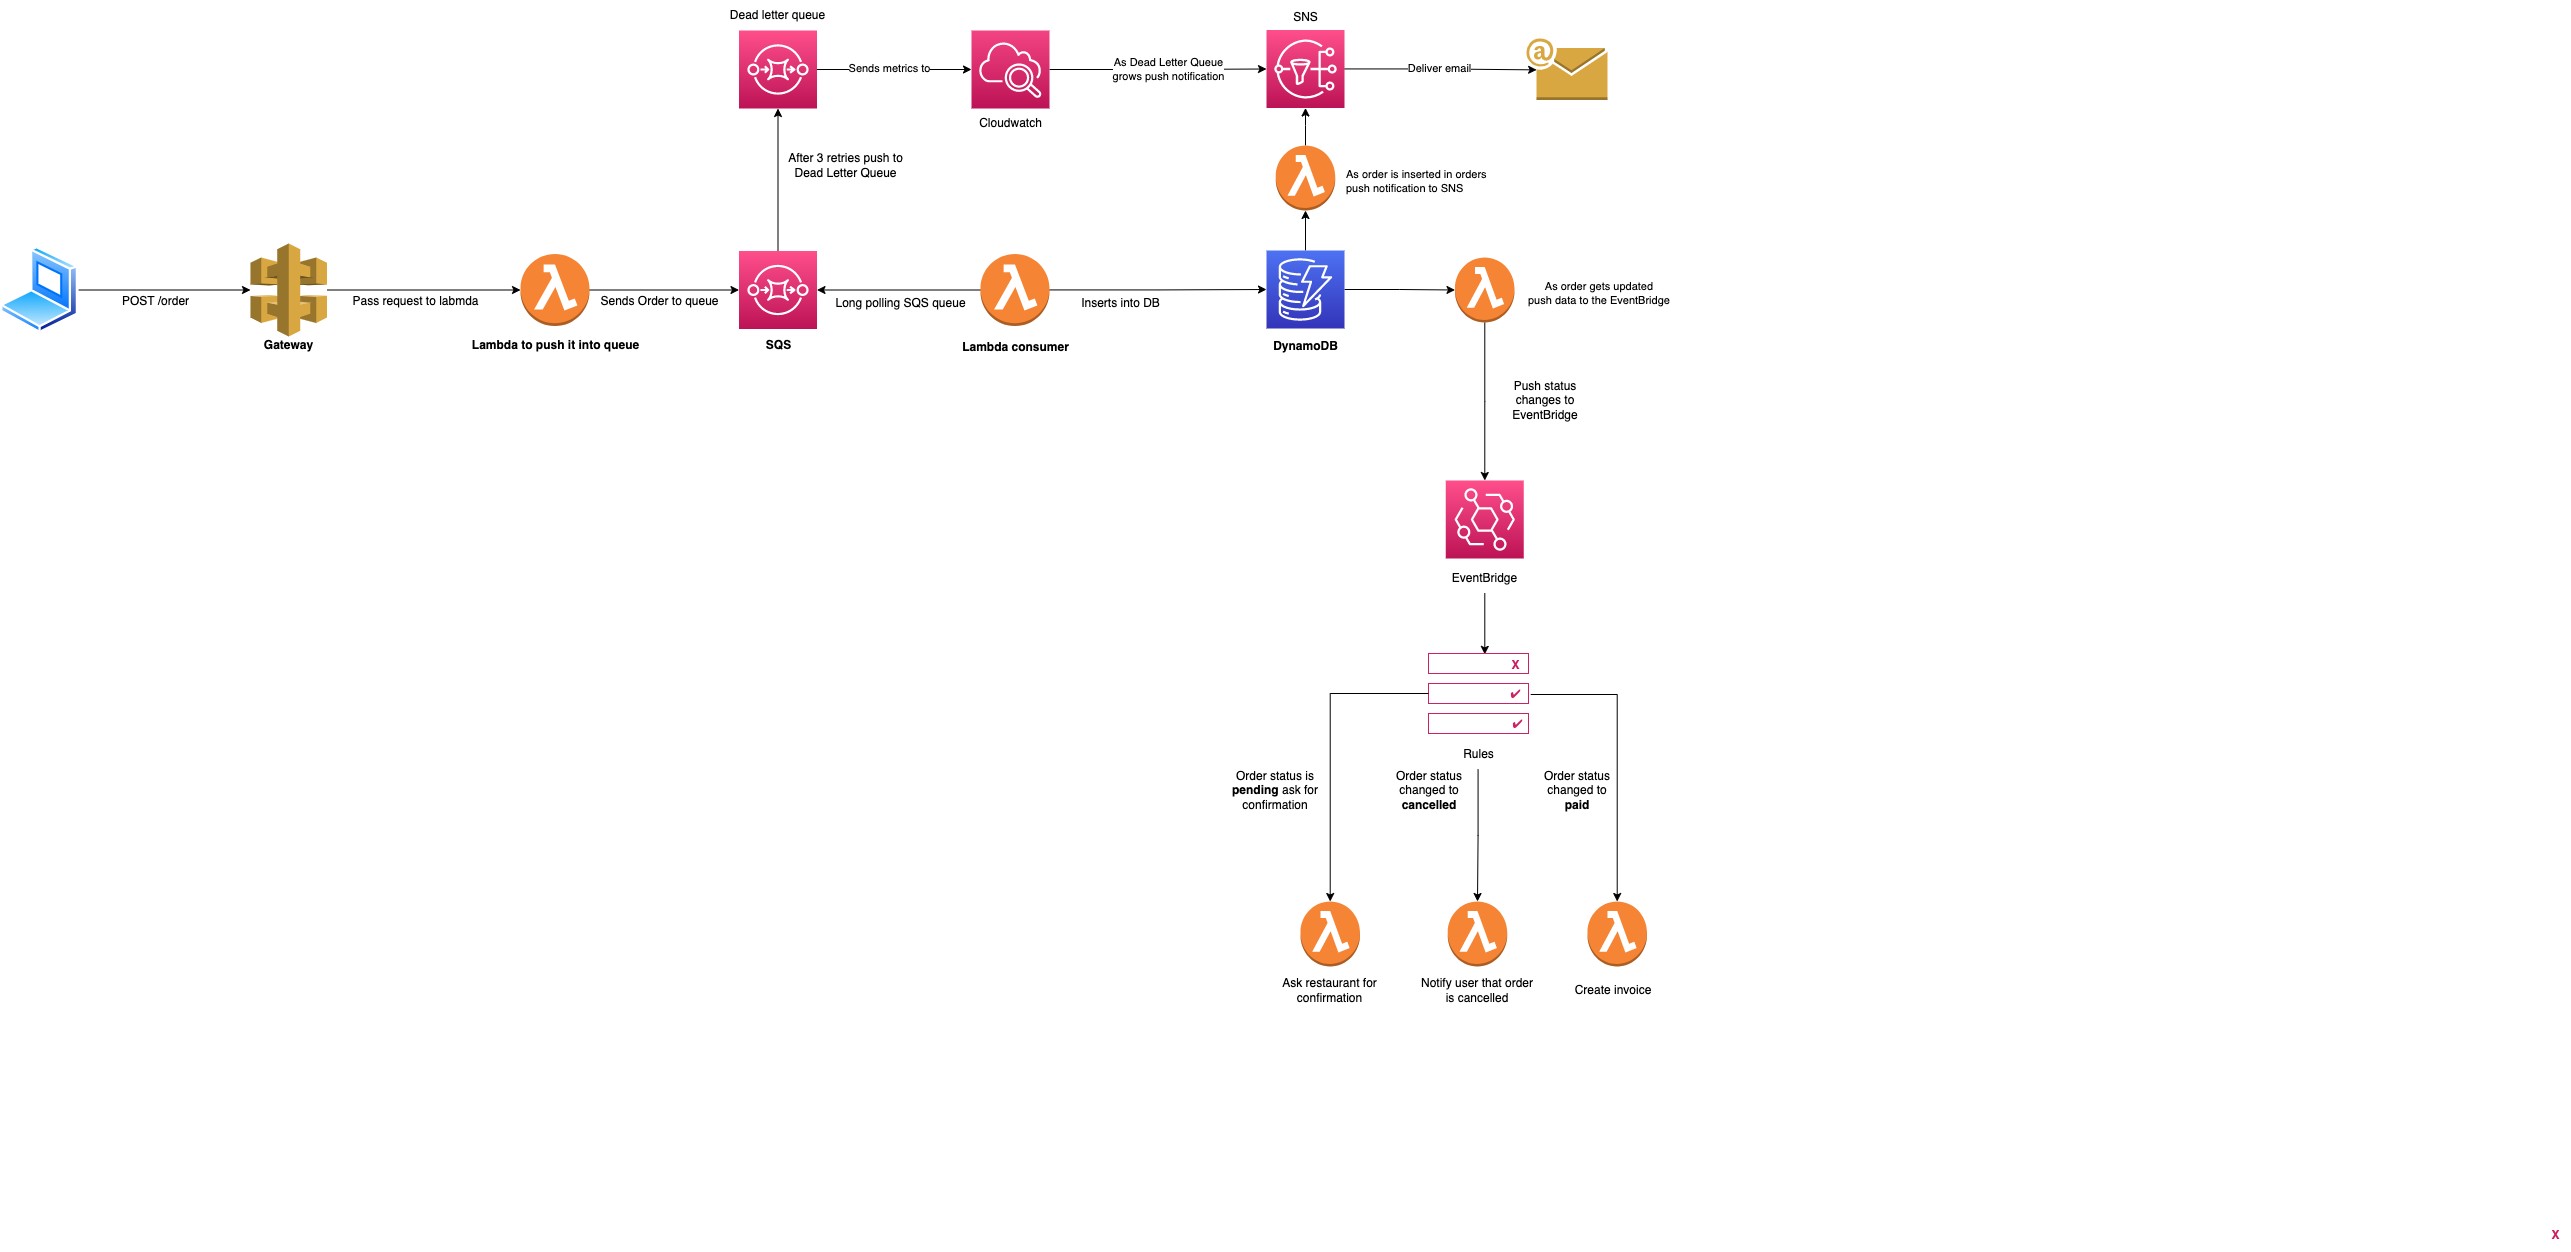
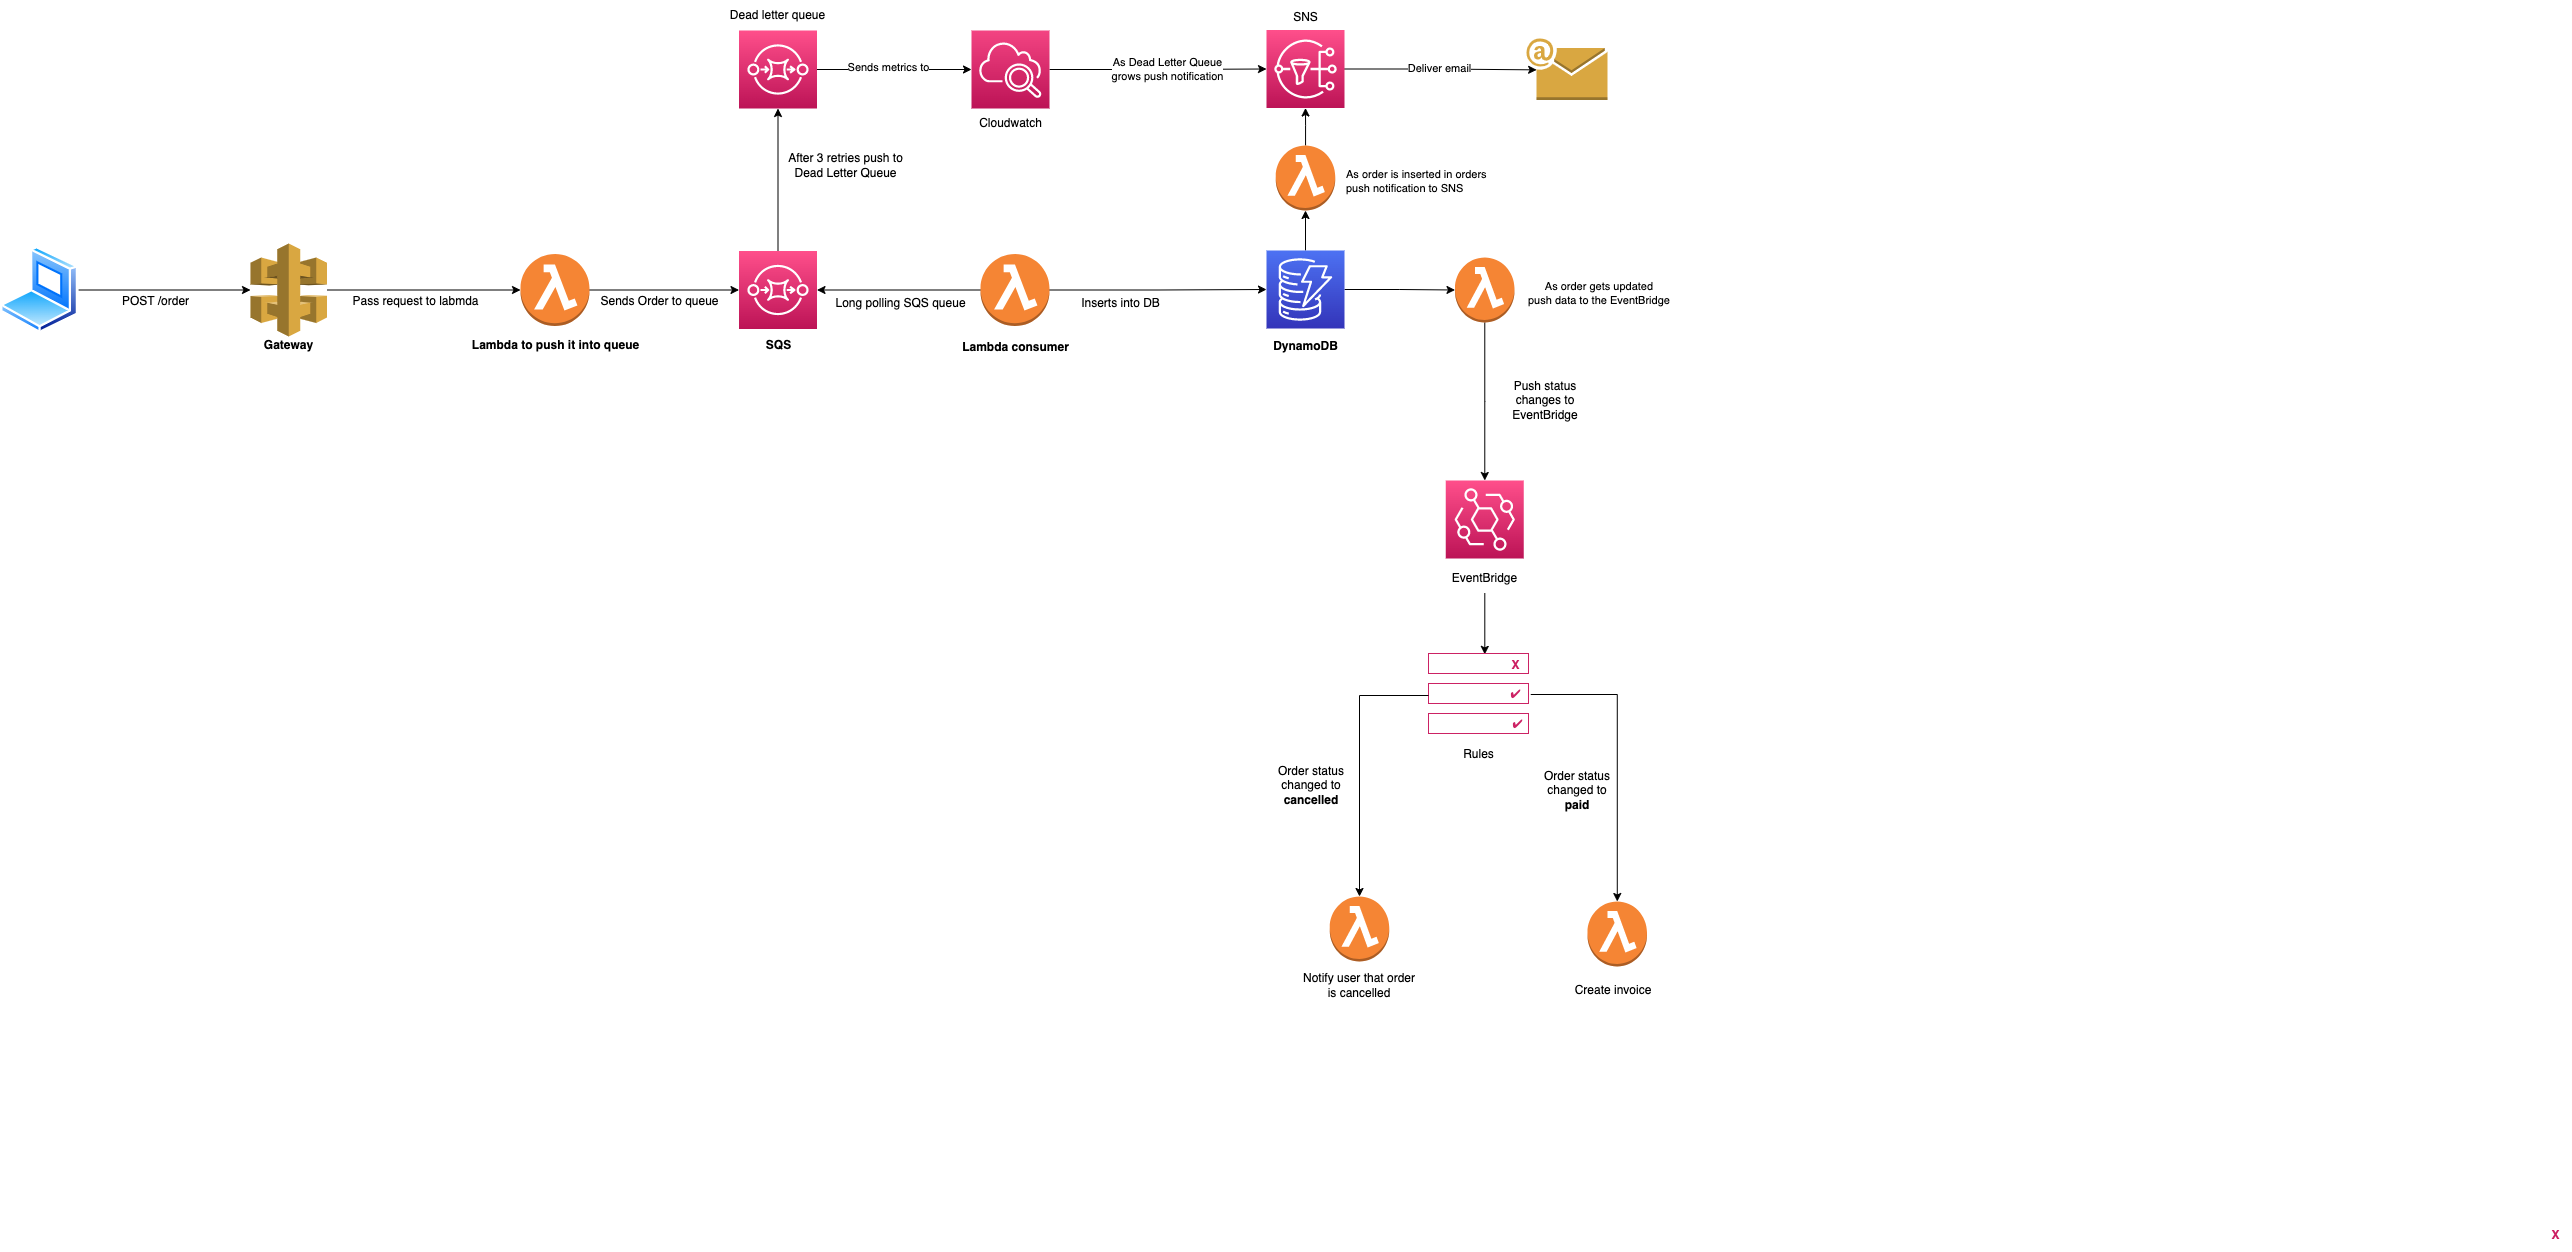
Add rest of the rules to connect to SNS

diff --git a/messaging-in-the-cloud/workshop/content/3-eventbridge/2-rest-of-the-rules/_index.en.md b/messaging-in-the-cloud/workshop/content/3-eventbridge/2-rest-of-the-rules/_index.en.md
@@ -1,4 +1,93 @@
 +++
-title = "Rest of the rules"
+title = "Rest of rules"
 weight = 3
 +++
+
+Let's create one more rule, it's going to be rule for cancelled orders. Go to Event Bridge and add new rule.
+Name it `Order.Updated.Cancelled` and choose Event Bus to be `Order.Updated`.
+
+![Setup event bridge](/images/eventBridge/create-second-rule-name.png)
+
+Choose type of the event, here we will be pushing our own event to the system. So let's go and choose `Other` in the first option.
+
+![Setup event bridge](/images/eventBridge/create-rule-type.png)
+
+Go to section `Creation method` and choose `Custom pattern`, and in the field below for the JSON enter the following JSON
+
+```
+{
+  "detail": {
+    "status": [ { "prefix": "CANCELLED" } ]
+  }
+}
+```
+
+This JSON will search for status which starts with `CANCELLED` status.
+
+Before you proceed it's important to enable `Content-based filter syntax` which will allow us to search in the content of the message.
+
+![Status](/images/eventBridge/create-second-rule-pattern.png)
+
+On the next step we will have to connect to the SNS.
+Choose `AWS Service` for the target type, and select a target `SNS Topic`.
+Now you are able to select, select the `order-topic` topic for target.
+
+![Status](/images/eventBridge/create-second-rule-target.png)
+
+That's all, go on and create the rule. We need to update our lambda which sends data to the Event Bridge to new code and configure to send it for multiple statuses. Open `react-to-dynamodb/index.js` and add following code:
+
+```
+const AWS = require("aws-sdk");
+AWS.config.update({ region: process.env.REGION });
+const sns = new AWS.SNS();
+const ebClient = new AWS.EventBridge({ apiVersion: '2015-10-07' });
+
+exports.reactToDynamo = async (event) => {
+    const newImage = event.Records[0].dynamodb.NewImage;
+    const oldImage = event.Records[0].dynamodb.OldImage;
+
+    // When it's created send to SNS
+    if (!oldImage && newImage.orderStatus.S === 'PENDING') {
+        await sns.publish({
+            "Message": JSON.stringify(newImage),
+            "TopicArn": process.env.TOPIC
+        }).promise();
+    }
+
+    if (oldImage && newImage && oldImage.orderStatus.S !== newImage.orderStatus.S) {
+        await ebClient.putEvents({
+          Entries: [
+            {
+                Detail: JSON.stringify({
+                  id: newImage.id.S,
+                  status: newImage.orderStatus.S
+                }),
+                EventBusName: "Order.Updated",
+                DetailType: "Order changed",
+                Source: 'dynamo.changes',
+                Time: new Date()
+            },
+          ],
+        }).promise();
+    }
+};
+```
+
+Now we need to build and deploy our code using:
+
+```
+sam build --template template.yaml
+sam deploy --stack-name orders
+```
+
+To test our connection, we can call our endpoint to update order to CANCELLED status which will update it in Dynamo. Go to the DynamDB first and grab order id.
+
+![Taking order id from the DynamoDB table](/images/eventBridge/order-id.png)
+
+Run the following command but pass id that you grapped above:
+
+```
+curl -s --header "Content-Type: application/json"   --request PUT   --data '{"id": "YOUR_PRIMARY_KEY", "foodName": "Pizza", "status": "CANCELLED" }' $API_ENDPOINT
+```
+
+In the end you should receive email when order is cancelled.

diff --git a/messaging-in-the-cloud/workshop/content/3-eventbridge/0-setup/_index.en.md b/messaging-in-the-cloud/workshop/content/3-eventbridge/0-setup/_index.en.md
@@ -4,8 +4,7 @@ weight = 1
 +++
 
 In this part of the module we will introduce approval phase, invoicing and schedules for our order processing system. We are are going to add rules based on DynamoDB changes to trigger other flows.
-  - When our order gets into `pending` status we will trigger flow to ask for approval
-  - When order gets `cancelled` we will notify the customer
+  - When order gets `cancelled` we will notify us through email
   - When order gets to `paid` status we will create invoice
 
 ![Setup event bridge](/images/eventBridge/setup.png)
